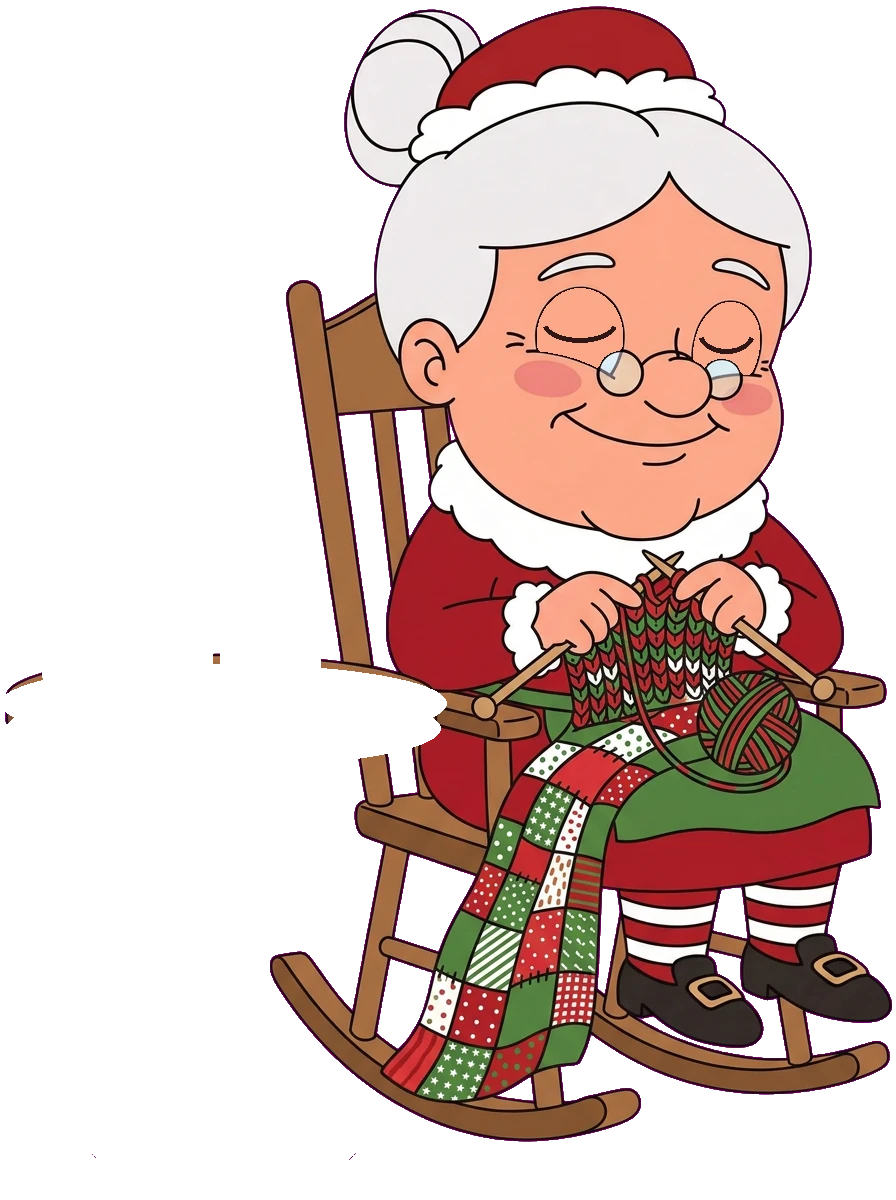
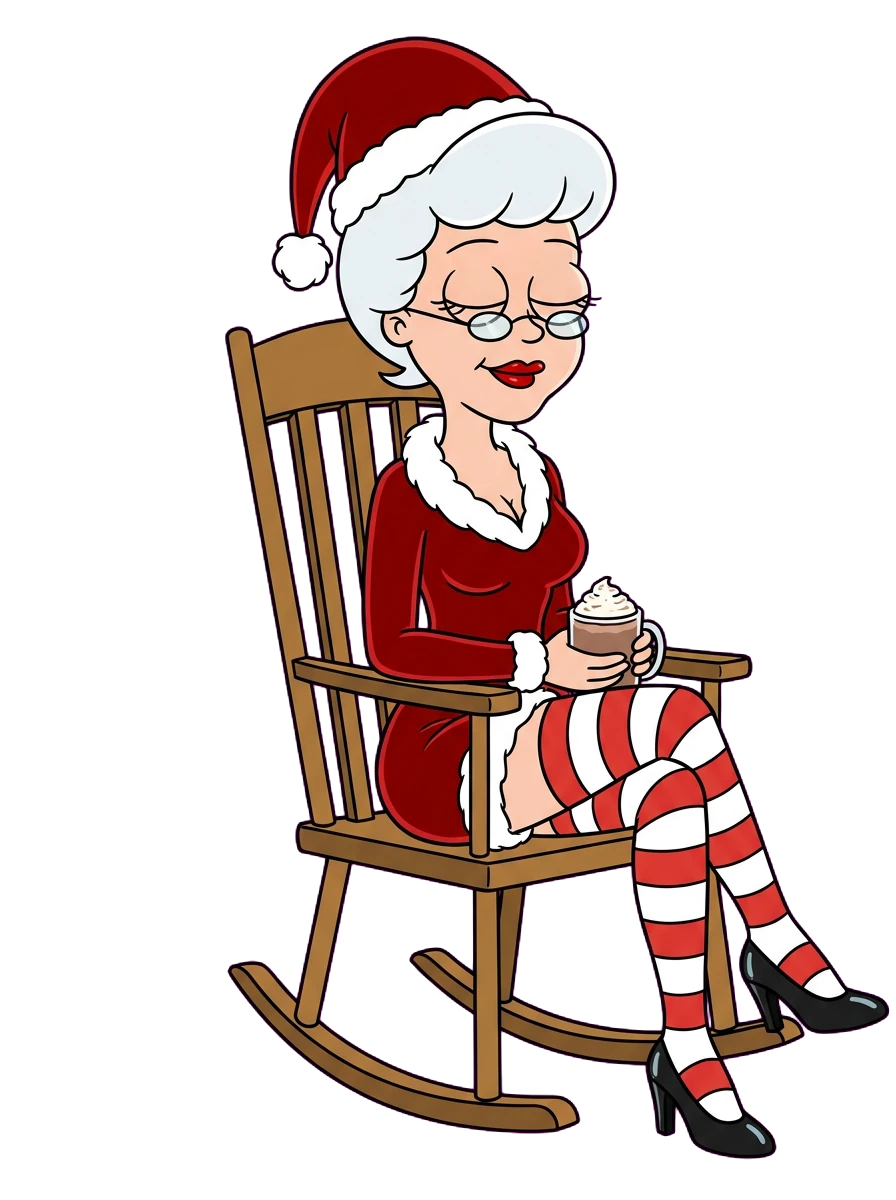
v1.5: new pin-up Mrs. Claus with cocoa, moving steam, blinks and winks; milk gone; Santa a touch left; Blizzard's still snow gone

diff --git a/front/index.html b/front/index.html
@@ -10932,21 +10932,17 @@ const CHARACTERS = [
   { el: "charfx", sleeper: { img: "assets/xmas/santa_bar.webp", wake: "assets/xmas/santa_bar_wake.webp", torso: [238, 400], head: [620, 300], z: [600, 170], stillX: 470,
     // (owner, 2026-10-31: "fix the corner ... it looks bad") his face lay right on the counter's corner, its edges poking
     // out beside his cheek; a touch to the right, his head rests on the bar top and he hides the corner
-    inBar: { pic: [3840, 2160], at: [3490, 1404], contact: [562, 445], scale: .736 } } },
-  // Mrs. Claus (owner, 2026-10-30): in her rocking chair, knitting a patchwork quilt, rocking gently back and forth;
-  // beside her a side table with a jar of gingerbread cookies and a glass of milk (the table holds still, in front)
-  { el: "charfx2", sleeper: { img: "assets/xmas/mrs_rock.webp", blink: "assets/xmas/mrs_rock_blink.webp", table: "assets/xmas/mrs_table.webp",
-    rock: { pivot: [600, 1110], deg: 2.6, period: 3.6 },
-    torso: [610, 640], head: [640, 330], neck: [630, 500], calmX: 300, size: .72, align: "right",
-    // (owner, 2026-11-03: "make her move her arms and then the little sticks move to make it look like she's knitting")
-    // each needle turns about its knob, resting on the chair's arm, and her hand on it and her forearm go with it; the
-    // right needle's tip dips into the stitch and comes back out, the left one gives to meet it, the knitting between
-    // them shifts with both. In the picture's pixels; a finer mesh so the needles stay straight as they move
-    grid: [60, 80],
-    knit: { period: 1.05, collar: 548,
-      L: { pivot: [484, 706], tip: [680, 552], hand: [588, 610, 52, 42], elbow: [420, 600], deg: -2.6, phase: .55 },
-      R: { pivot: [826, 686], tip: [644, 550], hand: [720, 598, 46, 40], elbow: [850, 560], deg: 4.6, phase: 0 },
-      cloth: [560, 596, 736, 728] } } },
+    inBar: { pic: [3840, 2160], at: [3455, 1404], contact: [562, 445], scale: .736 } } },
+  // Mrs. Claus (owner, 2026-11-06: "just make a brand new mrs clause ... in a rocking chair", "dont make her that fat",
+  // "make her look kinda slutty"): a new, slimmer pin-up Mrs. Claus with her legs crossed, a mug of cocoa in her hands - no
+  // quilt, no knitting - rocking gently back and forth, the cocoa's steam rising off the mug ("make the steam move"); beside
+  // her the side table with its jar of gingerbread cookies ("remove the milk on the table") - the table holds still, in front
+  // (owner, 2026-11-06: "make both of her eyes open and blink normally and wink every once and while")
+  { el: "charfx2", sleeper: { img: "assets/xmas/mrs_rock.webp", blink: "assets/xmas/mrs_rock_blink.webp", wink: "assets/xmas/mrs_rock_wink.webp",
+    table: "assets/xmas/mrs_table.webp",
+    rock: { pivot: [520, 1128], deg: 2.6, period: 3.6 },
+    torso: [500, 560], head: [510, 300], neck: [515, 420], calmX: 300, size: .72, align: "right",
+    steam: [601, 578] } },   // the top of the cocoa's cream, in the picture's pixels
 ];
 const CHAR_RATE = .8;                     // both rigs play at 80% speed, as the clips did
 // The pair redraw at most about 60 times a second: on the owner's 165 Hz screen each figure - its
@@ -11620,6 +11616,7 @@ async function makeSleeper({ el, sleeper: S }) {
     tex = await PIXI.Assets.load(S.img);
     if (S.blink) texB = await PIXI.Assets.load(S.blink);
     if (S.wake) S._texW = await PIXI.Assets.load(S.wake);
+    if (S.wink) S._texK = await PIXI.Assets.load(S.wink);
     if (S.table) S._texT = await PIXI.Assets.load(S.table);
   } catch (e) { console.warn("seated character:", e.message); return null; }
   root.classList.add("sleeper");
@@ -11650,7 +11647,21 @@ async function makeSleeper({ el, sleeper: S }) {
   // the blink is a second picture of the same pose, bent the same way, shown for a moment now and then
   const meshB = texB ? new PIXI.MeshPlane({ texture: texB, verticesX: GX, verticesY: GY }) : null;
   if (meshB) { meshB.visible = false; rocker.addChild(meshB); }
+  // a wink: a third picture of the same pose (one eye shut), bent the same way, shown now and then for a little longer
+  const meshK = S._texK ? new PIXI.MeshPlane({ texture: S._texK, verticesX: GX, verticesY: GY }) : null;
+  if (meshK) { meshK.visible = false; rocker.addChild(meshK); }
+  const bufK = meshK ? meshK.geometry.getBuffer("aPosition") : null;
+  let winkUntil = 0, nextWink = performance.now() + 9000 + Math.random() * 7000;
   if (S._texT) frame.addChild(new PIXI.Sprite(S._texT));   // the side table, still, in front of the chair
+  // the cocoa's steam (owner, 2026-11-06: "make the steam move"): three soft wisps that rise off the mug one after another,
+  // swaying and fading out - in the rocker, so they rock with her, and lifted with her breath like the hands that hold it.
+  // Silvery with a faint darker rim, as Santa's is: it rises over her white fur collar and has to show against it.
+  const wisps = (S.steam ? [0, 1, 2] : []).map(() => {
+    const g = new PIXI.Graphics(), path = q => q.moveTo(0, 0).bezierCurveTo(-9, -14, 9, -26, 0, -40).bezierCurveTo(-7, -50, 6, -60, 0, -70);
+    path(g).stroke({ width: 11, color: 0x7d8ea6, alpha: .45, cap: "round", join: "round" });
+    path(g).stroke({ width: 7, color: 0xffffff, alpha: 1, cap: "round", join: "round" });
+    g.alpha = 0; rocker.addChild(g); return g;
+  });
   const bufB = meshB ? meshB.geometry.getBuffer("aPosition") : null;
   let blinkUntil = 0, nextBlink = performance.now() + 3000;
   // woken (santaWake): the picture of him with his head up and laughing, bent the same way, lifting off the bar
@@ -11764,6 +11775,7 @@ async function makeSleeper({ el, sleeper: S }) {
       }
       buf.update();
       if (bufB) { bufB.data.set(d); bufB.update(); }
+      if (bufK) { bufK.data.set(d); bufK.update(); }
       if (bufW) {   // his head up off the bar for a moment: eased up, held (a laugh's bob in it), eased back down
         const a = (performance.now() - wakeFrom) / Math.max(1, wakeMs), on = a >= 0 && a < 1;
         meshW.visible = on; mesh.visible = !on && !(meshB && meshB.visible);
@@ -11779,10 +11791,24 @@ async function makeSleeper({ el, sleeper: S }) {
         }
       }
     }
-    if (meshB) {                                                           // her slow, heavy blink every few seconds
+    if (meshB || meshK) {                                                  // her blink every few seconds, a wink now and then
       const now = performance.now();
-      if (now > nextBlink) { blinkUntil = now + 260; nextBlink = now + 3500 + Math.random() * 4000; }
-      meshB.visible = now < blinkUntil; mesh.visible = !meshB.visible;
+      if (meshK && now > nextWink && now > blinkUntil) { winkUntil = now + 700; nextWink = now + 9000 + Math.random() * 7000; nextBlink = Math.max(nextBlink, now + 1500); }
+      else if (meshB && now > nextBlink && now > winkUntil) { blinkUntil = now + 260; nextBlink = now + 3500 + Math.random() * 4000; }
+      const winking = !!meshK && now < winkUntil, blinking = !!meshB && !winking && now < blinkUntil;
+      if (meshK) meshK.visible = winking;
+      if (meshB) meshB.visible = blinking;
+      mesh.visible = !winking && !blinking;
+    }
+    if (wisps.length) {                                                   // the steam rising off her cocoa
+      const [sx, sy] = S.steam;
+      const lift = REDUCED_MOTION ? 0 : Math.sin(TAU * t / 4.6) * A * Math.exp(-((sx - tx) ** 2 + (sy - ty) ** 2) / (2 * sT * sT));
+      wisps.forEach((g, k) => {
+        const p = REDUCED_MOTION ? .35 : (t / 2.8 + k / 3) % 1;
+        g.position.set(sx + (k - 1) * 7 + Math.sin(p * TAU + k * 2) * 5, sy - lift - p * 46);
+        g.alpha = REDUCED_MOTION ? .25 : Math.sin(Math.PI * p) * .55;
+        g.scale.set(.55 + .45 * p, .55 + .55 * p); g.rotation = Math.sin(p * Math.PI + k) * .18;
+      });
     }
     zs.forEach((z, i) => {                                                 // Z's drifting up off him, one after another
       const p = ((t / 4.2 + i / 3) % 1);

diff --git a/CHANGELOG.md b/CHANGELOG.md
@@ -1,5 +1,23 @@
 # Changelog
 
+## v1.5 - Mr. & Mrs. Claus (2026-11-06)
+
+A new Mrs. Claus and a cleaner Blizzard. Math unchanged (v14).
+
+**Mrs. Claus**
+- A brand-new Mrs. Claus in the bar: a slimmer, flirty pin-up in a short red velvet dress with fur trim, striped
+  thigh-high stockings and heels, legs crossed, rocking in her chair with a mug of cocoa in both hands. No quilt, no
+  knitting.
+- The cocoa's steam rises off the mug in soft wisps that sway and fade, rocking with her.
+- Both eyes open: she blinks every few seconds and winks now and then.
+- The side table keeps its jar of gingerbread cookies; the glass of milk is gone.
+
+**The bar**
+- Santa sits a little further left on his stool.
+
+**The Blizzard**
+- The snowflakes painted into its background picture are gone (they never moved); only the falling snow is left.
+
 ## v1.4 - Mr. & Mrs. Claus (2026-11-06)
 
 After engine.io's first review (rated 60, not approved): a visual overhaul and animation polish, fewer symbols and
